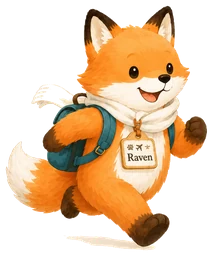
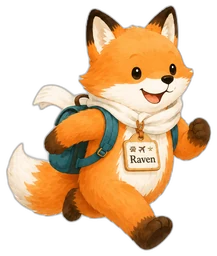
fix: clean up mascot — AI bg removal and move to day card
- Re-cut mascot with rembg (U^2-Net) so scarf white stays and foot edges
  no longer halo; same ~18 KB WebP
- Move mascot off the navy header and into the day-summary card,
  vertically centered at the right edge, ~60px tall so it stays inside
  the card

diff --git a/components/trip/TripView.tsx b/components/trip/TripView.tsx
@@ -31,20 +31,10 @@ export default function TripView({
 
   return (
     <main className="mx-auto flex w-full max-w-[480px] flex-1 flex-col">
-      <div className="relative overflow-hidden bg-gradient-to-b from-navy to-navy-lt px-4 pt-4 pb-2 text-white">
-        <Image
-          src="/mascot-trip-header.webp"
-          alt=""
-          width={213}
-          height={256}
-          sizes="100px"
-          priority
-          aria-hidden
-          className="pointer-events-none absolute right-1 top-1 h-[100px] w-auto select-none"
-        />
-        <div className="relative flex items-baseline justify-between gap-3">
-          <div className="min-w-0">
-            <h1 className="truncate text-base font-extrabold tracking-wide">
+      <div className="bg-gradient-to-b from-navy to-navy-lt px-4 pt-4 pb-2 text-white">
+        <div className="flex items-baseline justify-between gap-3">
+          <div>
+            <h1 className="text-base font-extrabold tracking-wide">
               {trip.cover_emoji} {trip.title}
             </h1>
             <p className="text-[11px] opacity-70">
@@ -55,14 +45,14 @@ export default function TripView({
           {showExpenseLink && (
             <Link
               href={`/trips/${trip.id}/expenses`}
-              className="relative z-10 rounded-full bg-gold px-3 py-1.5 text-[11px] font-semibold text-white shadow-sm"
+              className="rounded-full bg-gold px-3 py-1.5 text-[11px] font-semibold text-white shadow-sm"
             >
               💴 記帳
             </Link>
           )}
         </div>
 
-        <div className="no-scrollbar relative mt-3 flex gap-1.5 overflow-x-auto pb-2 pr-24">
+        <div className="no-scrollbar mt-3 flex gap-1.5 overflow-x-auto pb-2">
           {sorted.map((d, i) => (
             <button
               key={d.id}
@@ -81,8 +71,18 @@ export default function TripView({
 
       {active && (
         <div className="space-y-4 px-4 py-5">
-          <section className="rounded-xl bg-card p-4 shadow-sm">
-            <div className="flex items-center justify-between">
+          <section className="relative overflow-hidden rounded-xl bg-card p-4 shadow-sm">
+            <Image
+              src="/mascot-trip-header.webp"
+              alt=""
+              width={213}
+              height={256}
+              sizes="64px"
+              priority
+              aria-hidden
+              className="pointer-events-none absolute right-4 top-1/2 h-[60px] w-auto -translate-y-1/2 select-none"
+            />
+            <div className="relative flex items-center justify-between pr-16">
               <div className="text-xs font-semibold text-muted">
                 {active.day_label}
               </div>
@@ -96,7 +96,7 @@ export default function TripView({
               )}
             </div>
             {active.theme && (
-              <div className="mt-1.5 text-sm font-semibold text-ink">
+              <div className="relative mt-1.5 text-sm font-semibold text-ink pr-16">
                 {active.theme}
               </div>
             )}
